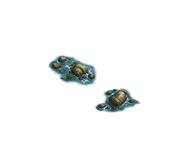
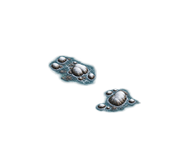
feat(terrain): snow-capped winter skerries
The winter skerries tile/skerry1..3_w were byte copies of the summer ones
and looked brown next to the snow-capped lake rocks. They are now cut from
water-seakit-winter-v1.png, the I3 winter edit of the C2 kit (snow caps,
frosted weed, ice collars), its paint under the summer kit's alpha
(waterRocksOutline), through the same boxes, scale and placement. The
shoals stay shared; the summer skerries are byte-identical. The generator
keeps its index entries in place on a re-export.

TestSeaKitWinterSnowCaps checks them at 4x, graded over the graded winter
water: alpha IoU 1.0, snow on 39-42 % of the rock area (was 0.8-1.5 %),
summer green 0.00 % (was 6.9-11.7 %).

Claude-Session: https://claude.ai/code/session_01GYYpxSaZdbX1BuoopUdKHR

Changed region(s): [[0.25, 0.3438, 0.5, 0.5312], [0.5, 0.5625, 0.7188, 0.6875]]

diff --git a/tools/art-review/sea_kit_generate_test.go b/tools/art-review/sea_kit_generate_test.go
@@ -7,11 +7,14 @@ package main
 // water-seakit-shared-v1.png (12 px per world px), into hex overlays:
 // tile/shoal1..4, the two sandy beds and their mirror images at the kit's
 // scale, drawn over shallow open water by a sea; and tile/skerry1..3, two of
-// the three rock clusters each at half the kit's scale, the rocks of stones in
-// water by a sea. The winter forms (suffix _w) are the same pixels under the
-// winter water grade. Writes them to assets/terrain/water/, replacing earlier
-// exports, and lists them in assets/index.json; run `go run ./cmd/hlart index`
-// afterwards.
+// the three rock clusters each at 0.7 of the kit's scale, the rocks of stones
+// in water by a sea. The winter shoals (suffix _w) are the same pixels under
+// the winter water grade; the winter skerries are cut the same way from the
+// kit's winter edit, water-seakit-winter-v1.png (snow caps, frosted weed, ice
+// collars), its paint under the summer kit's alpha (waterRocksOutline), so they
+// keep the summer skerries' outline. Writes them to assets/terrain/water/,
+// replacing earlier exports, and lists them in assets/index.json; run
+// `go run ./cmd/hlart index` afterwards.
 import (
 	"bytes"
 	"crypto/sha256"
@@ -51,18 +54,13 @@ type seaKitPart struct {
 
 func TestGenerateSeaKit(t *testing.T) {
 	root := filepath.Join("..", "..")
-	f, err := os.Open(filepath.Join(root, "art/terrain/water/water-seakit-shared-v1.png"))
+	kit := loadSeaKit(t, filepath.Join(root, "art/terrain/water/water-seakit-shared-v1.png"))
+	winterKit, err := waterRocksOutline(loadSeaKit(t, filepath.Join(root, "art/terrain/water/water-seakit-winter-v1.png")), kit)
 	if err != nil {
 		t.Fatal(err)
 	}
-	src, err := png.Decode(f)
-	_ = f.Close()
-	if err != nil {
-		t.Fatal(err)
-	}
-	kit := image.NewNRGBA(src.Bounds())
-	draw.Draw(kit, kit.Rect, src, src.Bounds().Min, draw.Src)
 	shoals, skerries := seaKitElements(t, kit, seaKitShoals), seaKitElements(t, kit, seaKitSkerries)
+	winterSkerries := seaKitElements(t, winterKit, seaKitSkerries)
 	overlays := map[string][]seaKitPart{
 		"shoal1":  {{0, [2]float64{-6, 2}, 1, false}},
 		"shoal2":  {{1, [2]float64{5, -2}, 1, false}},
@@ -76,61 +74,52 @@ func TestGenerateSeaKit(t *testing.T) {
 	if err != nil {
 		t.Fatal(err)
 	}
-	entries = slices.DeleteFunc(entries, func(raw json.RawMessage) bool {
+	// The new entries take the place of the earlier ones (the end for a first
+	// export), so a re-export leaves the index's order alone.
+	ours := func(raw json.RawMessage) bool {
 		var e campaignEntry
 		return json.Unmarshal(raw, &e) == nil && (strings.HasPrefix(e.ID, "tile/shoal") || strings.HasPrefix(e.ID, "tile/skerry"))
-	})
+	}
+	place := slices.IndexFunc(entries, ours)
+	entries = slices.DeleteFunc(entries, ours)
+	if place < 0 {
+		place = len(entries)
+	}
+	var fresh []json.RawMessage
 	ids := make([]string, 0, len(overlays))
 	for id := range overlays {
 		ids = append(ids, id)
 	}
 	slices.Sort(ids)
 	for _, id := range ids {
-		elements := shoals
+		elements, winterElements := shoals, shoals
 		if strings.HasPrefix(id, "skerry") {
-			elements = skerries
+			elements, winterElements = skerries, winterSkerries
 		}
 		for _, d := range []int{2, 4} {
-			tile := image.NewNRGBA(image.Rect(0, 0, 96*d, 80*d))
-			for _, p := range overlays[id] {
-				e := elements[p.element]
-				w := int(math.Round(float64(e.Rect.Dx()) * p.scale * float64(d) / seaKitPixels))
-				h := int(math.Round(float64(e.Rect.Dy()) * p.scale * float64(d) / seaKitPixels))
-				part, err := resizeLanczos(e, w, h)
+			summer := seaKitTile(t, elements, overlays[id], d)
+			winter := summer
+			if strings.HasPrefix(id, "skerry") {
+				winter = seaKitTile(t, winterElements, overlays[id], d)
+			}
+			for _, o := range []struct {
+				name string
+				png  []byte
+			}{{id, summer}, {id + "_w", winter}} {
+				path := fmt.Sprintf("terrain/water/%s-%dx.png", o.name, d)
+				if err := os.WriteFile(filepath.Join(root, "assets", path), o.png, 0644); err != nil {
+					t.Fatal(err)
+				}
+				sum := sha256.Sum256(o.png)
+				raw, err := json.Marshal(campaignEntry{ID: "tile/" + o.name, Pack: fmt.Sprintf("terrain-infrastructure-%dx", d), Density: d, Path: path, SHA256: hex.EncodeToString(sum[:]), Width: 96 * d, Height: 80 * d, Anchor: [2]float64{48, 40}, Art: "terrain/water"})
 				if err != nil {
 					t.Fatal(err)
 				}
-				if p.mirror {
-					part = mirrored(part)
-				}
-				at := image.Pt(int(math.Round((48+p.at[0])*float64(d)))-w/2, int(math.Round((40+p.at[1])*float64(d)))-h/2)
-				draw.Draw(tile, part.Rect.Add(at), part, image.Point{}, draw.Over)
-			}
-			for y := range 80 * d {
-				for x := range 96 * d {
-					if !connectionInside(sharedConnectionGeometry(), connectionPoint{(float64(x) + .5) / float64(d), (float64(y) + .5) / float64(d)}) {
-						tile.SetNRGBA(x, y, color.NRGBA{})
-					}
-				}
-			}
-			var buf bytes.Buffer
-			if err := png.Encode(&buf, tile); err != nil {
-				t.Fatal(err)
-			}
-			sum := sha256.Sum256(buf.Bytes())
-			for _, name := range []string{id, id + "_w"} {
-				path := fmt.Sprintf("terrain/water/%s-%dx.png", name, d)
-				if err := os.WriteFile(filepath.Join(root, "assets", path), buf.Bytes(), 0644); err != nil {
-					t.Fatal(err)
-				}
-				raw, err := json.Marshal(campaignEntry{ID: "tile/" + name, Pack: fmt.Sprintf("terrain-infrastructure-%dx", d), Density: d, Path: path, SHA256: hex.EncodeToString(sum[:]), Width: 96 * d, Height: 80 * d, Anchor: [2]float64{48, 40}, Art: "terrain/water"})
-				if err != nil {
-					t.Fatal(err)
-				}
-				entries = append(entries, raw)
+				fresh = append(fresh, raw)
 			}
 		}
 	}
+	entries = slices.Insert(entries, place, fresh...)
 	var out bytes.Buffer
 	out.WriteString("{\n  \"schema_version\": 1,\n  \"assets\": [\n")
 	for i, e := range entries {
@@ -145,6 +134,56 @@ func TestGenerateSeaKit(t *testing.T) {
 	if err := os.WriteFile(filepath.Join(root, "assets/index.json"), out.Bytes(), 0644); err != nil {
 		t.Fatal(err)
 	}
+}
+
+// loadSeaKit reads a sea kit painting as NRGBA.
+func loadSeaKit(t *testing.T, path string) *image.NRGBA {
+	t.Helper()
+	f, err := os.Open(path)
+	if err != nil {
+		t.Fatal(err)
+	}
+	src, err := png.Decode(f)
+	_ = f.Close()
+	if err != nil {
+		t.Fatal(err)
+	}
+	kit := image.NewNRGBA(image.Rect(0, 0, src.Bounds().Dx(), src.Bounds().Dy()))
+	draw.Draw(kit, kit.Rect, src, src.Bounds().Min, draw.Src)
+	return kit
+}
+
+// seaKitTile places parts of elements on a hex overlay at density d, clipped
+// to the hex, and returns its PNG bytes.
+func seaKitTile(t *testing.T, elements []*image.NRGBA, parts []seaKitPart, d int) []byte {
+	t.Helper()
+	tile := image.NewNRGBA(image.Rect(0, 0, 96*d, 80*d))
+	for _, p := range parts {
+		e := elements[p.element]
+		w := int(math.Round(float64(e.Rect.Dx()) * p.scale * float64(d) / seaKitPixels))
+		h := int(math.Round(float64(e.Rect.Dy()) * p.scale * float64(d) / seaKitPixels))
+		part, err := resizeLanczos(e, w, h)
+		if err != nil {
+			t.Fatal(err)
+		}
+		if p.mirror {
+			part = mirrored(part)
+		}
+		at := image.Pt(int(math.Round((48+p.at[0])*float64(d)))-w/2, int(math.Round((40+p.at[1])*float64(d)))-h/2)
+		draw.Draw(tile, part.Rect.Add(at), part, image.Point{}, draw.Over)
+	}
+	for y := range 80 * d {
+		for x := range 96 * d {
+			if !connectionInside(sharedConnectionGeometry(), connectionPoint{(float64(x) + .5) / float64(d), (float64(y) + .5) / float64(d)}) {
+				tile.SetNRGBA(x, y, color.NRGBA{})
+			}
+		}
+	}
+	var buf bytes.Buffer
+	if err := png.Encode(&buf, tile); err != nil {
+		t.Fatal(err)
+	}
+	return buf.Bytes()
 }
 
 // seaKitElements cuts each box of kit to the element it holds: the box of its

diff --git a/tools/art-review/sea_kit_winter_test.go b/tools/art-review/sea_kit_winter_test.go
@@ -1,0 +1,121 @@
+package main
+
+import (
+	"crypto/sha256"
+	"encoding/hex"
+	"fmt"
+	"image"
+	"image/draw"
+	"math"
+	"os"
+	"path/filepath"
+	"testing"
+
+	"github.com/CWBudde/Historyline-1914-1918-remake/internal/terraingrade"
+)
+
+// The summer skerries and the shoals of both seasons stay as they are.
+var summerSeaKitSHA = map[string]string{
[22 lines of base64/hex data omitted]
+}
+
+// TestSeaKitWinterSnowCaps checks the winter skerries at 4x, each graded as the
+// pack build grades it (terraingrade) and drawn over the graded winter water:
+// the summer skerries' outline with settled snow on the rocks, no summer
+// green, and the summer skerries and the shoals unchanged.
+func TestSeaKitWinterSnowCaps(t *testing.T) {
+	root := filepath.Join("..", "..")
+	for path, want := range summerSeaKitSHA {
+		b, err := os.ReadFile(filepath.Join(root, "assets", path))
+		if err != nil {
+			t.Fatal(err)
+		}
+		if sum := sha256.Sum256(b); hex.EncodeToString(sum[:]) != want {
+			t.Errorf("%s changed", path)
+		}
+	}
+	const d = 4
+	water := terraingrade.Grade(installedRuntimeTile(t, root, "tile/water_w", d), "tile/water_w", "terrain/water", nil)
+	for i := 1; i <= 3; i++ {
+		id := fmt.Sprintf("tile/skerry%d", i)
+		summer := installedRuntimeTile(t, root, id, d)
+		winter := installedRuntimeTile(t, root, id+"_w", d)
+		r := summer.Rect
+
+		// The outline: alpha >= 128 against the summer skerry.
+		inter, union := 0, 0
+		for y := range r.Dy() {
+			for x := range r.Dx() {
+				a, b := summer.NRGBAAt(x, y).A >= 128, winter.NRGBAAt(x, y).A >= 128
+				if a && b {
+					inter++
+				}
+				if a || b {
+					union++
+				}
+			}
+		}
+		iou := float64(inter) / float64(union)
+		t.Logf("%s_w: alpha IoU %.4f (%d/%d)", id, iou, inter, union)
+		if iou < .97 {
+			t.Errorf("%s_w: alpha IoU %.4f, want >= 0.97", id, iou)
+		}
+
+		// Snow and green on the rock area: the summer skerry's opaque
+		// (alpha >= 200) pixels of rock and weed hue (b* >= 0, hue under 150°),
+		// so the blue and teal water and the foam around the rocks do not count.
+		over := image.NewNRGBA(r)
+		draw.Draw(over, r, water, image.Point{}, draw.Src)
+		draw.Draw(over, r, terraingrade.Grade(winter, id+"_w", "terrain/water", nil), image.Point{}, draw.Over)
+		area, snow, green := 0, 0, 0
+		for y := range r.Dy() {
+			for x := range r.Dx() {
+				s := summer.NRGBAAt(x, y)
+				if _, a, b := winterLab(s); s.A < 200 || b < 0 || math.Atan2(b, a) >= 150*math.Pi/180 {
+					continue
+				}
+				area++
+				c := over.NRGBAAt(x, y)
+				l, a, b := winterLab(c)
+				if l >= 75 && math.Hypot(a, b) <= 10 {
+					snow++
+				}
+				if summerGreen(c) {
+					green++
+				}
+			}
+		}
+		if area == 0 {
+			t.Fatalf("%s: no rock area", id)
+		}
+		snowShare, greenShare := float64(snow)/float64(area), float64(green)/float64(area)
+		t.Logf("%s_w: rock area %d px, snow %.1f %%, summer green %.2f %%", id, area, 100*snowShare, 100*greenShare)
+		if snowShare < .25 {
+			t.Errorf("%s_w: snow (L* >= 75, C* <= 10) on %.1f %% of the rock area, want >= 25 %%", id, 100*snowShare)
+		}
+		if greenShare >= .01 {
+			t.Errorf("%s_w: summer green on %.2f %% of the rock area, want < 1 %%", id, 100*greenShare)
+		}
+	}
+}

diff --git a/art/terrain/water/prompt.md b/art/terrain/water/prompt.md
@@ -4,7 +4,7 @@ title: Water
 kind: terrain
 status: approved
 runtime_ids: water, waterStones, water_w, waterStones_w, waterRocks, waterRocks_w, sea-00, sea-00_w, sea-02, sea-02_w, sea-20, sea-20_w, sea-22, sea-22_w, sea-11, sea-11_w, sea-13, sea-13_w, sea-31, sea-31_w, sea-33, sea-33_w, shoal1, shoal1_w, shoal2, shoal2_w, shoal3, shoal3_w, shoal4, shoal4_w, skerry1, skerry1_w, skerry2, skerry2_w, skerry3, skerry3_w, surf, surf_w
-masters: water-shared-v3.png, water-rocks-shared-v2.png, water-shared-v2.png, water-shared-v1.png, water-rocks-shared-v1.png, water-rocks-shared-v3.png, water-reeds-shared-v1.png, water-boulders-shared-v1.png, water-bed-summer-v1.png, water-deep-summer-v1.png, water-sea-shared-v1.png, water-seakit-shared-v1.png, water-surf-shared-v1.png, water-rocks-winter-v1.png
+masters: water-shared-v3.png, water-rocks-shared-v2.png, water-shared-v2.png, water-shared-v1.png, water-rocks-shared-v1.png, water-rocks-shared-v3.png, water-reeds-shared-v1.png, water-boulders-shared-v1.png, water-bed-summer-v1.png, water-deep-summer-v1.png, water-sea-shared-v1.png, water-seakit-shared-v1.png, water-surf-shared-v1.png, water-rocks-winter-v1.png, water-seakit-winter-v1.png
 ---
 
 ## Look
@@ -27,12 +27,34 @@ Use case: stylized-concept. NEW transparent terrain object sprite, native high d
 | waterStones | waterStones | Transparent 6:5 cut-out: three compact groups of low rounded tan-grey rocks with flat cracked tops and a few small companions, clustered in the central 55 percent; only a very narrow translucent ripple fringe at each rock; everything else alpha zero. |
 | winter | water_w | No new painting: the summer tile's pixels (`TestGenerateWinterWater`). The pack build grades the water of every winter tile, this one, the winter stones and the winter shores alike, to a cold slate teal at L\* 24–32 and chroma about 8 (`internal/terraingrade`). |
 | winter rocks | waterStones_w, waterRocks_w | Snow-capped rocks: the paint of `water-rocks-winter-v1.png` under the summer rocks' alpha (`compound-water-stones-winter-v1.json`, `TestGenerateWaterRocks`, `TestGenerateWinterWater`), over the same water as summer. |
+| winter skerries | skerry1_w, skerry2_w, skerry3_w | Snow-capped skerries: the paint of `water-seakit-winter-v1.png` under the summer kit's alpha, cut and placed as the summer skerries (`TestGenerateSeaKit`). The winter shoals are the summer pixels. |
 
 ## Edges & joins
 The water material is periodic on the world lattice, so lake hexes form one continuous surface; shore
 and stream tiles use the same material, so water matches across all of them.
 
 ## Post
+
+### Look 8 I3 winter skerry candidate (2026-10-25)
+
+`water-seakit-winter-v1.png` (`exec-c420bf50`, native 1536×1024 RGBA, unchanged) is the I3 winter edit
+of the C2 kit: on the three skerries settled snow on the upper-left-lit tops of every stone (36–41 % of
+the rock area at L\* ≥ 75 and C\* ≤ 10), grey-brown frosted weed with no green left, and thin grey-white
+ice for the foam and ripple collars, every stone in place (best shift 1 px). The top row (surf, shoals)
+is left as in summer and not used. Fault: the edit does not keep the kit's haze alpha to the pixel
+(alpha ≥ 128 IoU 0.88–0.95 in the skerry boxes), so the export keeps the summer kit's alpha and takes
+only this paint (`waterRocksOutline`). It is the winter skerries `tile/skerry1_w` to `tile/skerry3_w`.
+Attached: `water-seakit-shared-v1.png` and, for the palette only, `water-rocks-winter-v1.png`. The
+prompt was:
+
+```text
+Use case: precise-object-edit. Image 1 is the summer sea kit sheet. Preserve every object's exact outline, position, size and lighting; change only the season: settled snow caps on the upper-left-lit tops of the stones, frost on the weed and moss, thin ice collars instead of foam at the waterlines. Keep transparency exactly as in image 1.
+Avoid: changed shapes, new objects, moved objects, snow outside the objects, a blue tint over everything.
+
+Output exactly the same canvas as image 1: LANDSCAPE 1536x1024 RGBA, every element in exactly the same place and at exactly the same size, the same soft transparent haze around each element, alpha zero where image 1 has alpha zero. The top row (three foam lines and two sandy shoals) stays exactly as in image 1. Change only the bottom row, the three rock clusters (skerries) between y 680 and 1000: each big boulder and each small stone gets soft settled snow of matt cold white, lit RGB near 232,234,236 and shaded RGB near 188,196,206, covering the upper and upper-left part of every stone, the big and the small ones, about half of each stone's visible area, thinning to bare grey-brown rock at the lower-right flanks and the dark wet waterline. The green-yellow moss on the boulders and the olive weed tufts between the stones turn to grey-brown frosted patches, no green left. The white foam and the bright ripple ring around each cluster become thin broken collars of pale grey-white ice, as narrow as the summer foam; the water between the stones turns a cold dark slate teal, not green.
+
+Image 1 is the selected summer sea kit sheet (water-seakit-shared-v1.png, 1536x1024 RGBA): change season only, preserve every outline and position and the transparency. Image 2 is the installed winter lake rocks (water-rocks-winter-v1.png): take only its snow, frosted-moss and ice-collar palette and how much of each stone the snow covers; do not copy its rocks, their shapes or their layout.
+```
 
 ### Look 7 I3 winter lake-rocks candidate (2026-10-24)
 
